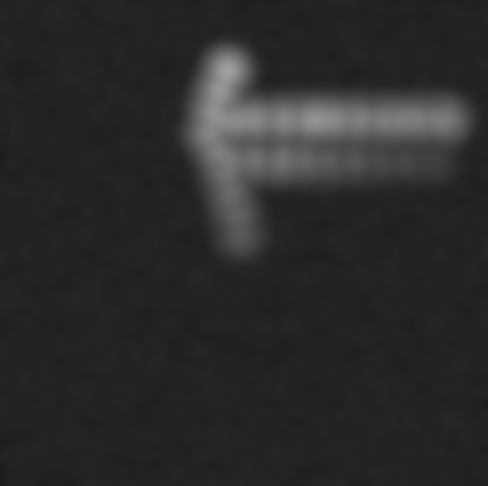
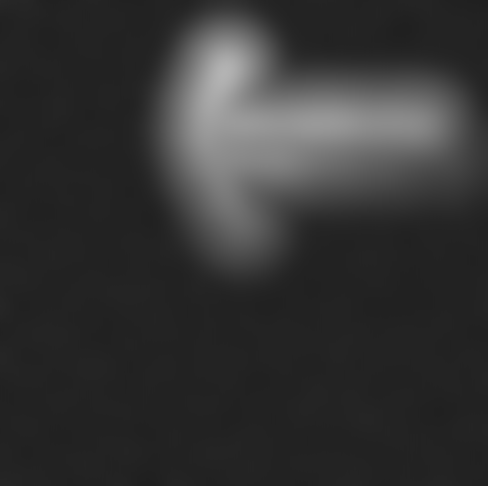
fixed

Changed region(s): [[0.3074, 0.0, 0.9836, 0.5556]]

diff --git a/sceneWebRender/handleSketch.py b/sceneWebRender/handleSketch.py
@@ -1,5 +1,5 @@
 import math
-COUNT = 8
+COUNT = 20
 
 def parseBackground(mountainlList, size):
 	result = []
@@ -45,7 +45,7 @@ def parseBackground(mountainlList, size):
 					verticalRidge.append({	'h':float(meanYHorizontalReference-tmp3[1])/size['height'], 
 											'x0':float(tmp3[0])/size['width'], 
 											'y0':float(tmp3[1])/size['height'], 
-											'rl':float(radiusHorizontalReference)/(size['width']*2),
+											'rl':float(radiusHorizontalReference)/(size['width']*1.2),
 											'rh':float(10)/size['width']}) 
 				tmpCount = tmpCount + 1
 			verticalRidgeList.append(verticalRidge)
@@ -66,7 +66,7 @@ def parseBackground(mountainlList, size):
 					horizontalRidge.append({'h':float(meanYHorizontalReference-tmp3[1])/size['height'], 
 											'x0':float(tmp3[0])/size['width'], 
 											'y0':float(tmp2[0][1])/size['height'], 
-											'rl':float(radiusHorizontalReference)/(size['width']*2),
+											'rl':float(radiusHorizontalReference)/(size['width']*1.2),
 											'rh':float(10)/size['width']})
 				tmpCount = tmpCount + 1
 			horizontalRidgeList.append(horizontalRidge)

diff --git a/sceneWebRender/main.py b/sceneWebRender/main.py
@@ -27,9 +27,9 @@ def achieveSketch():
 	for mountain in background:
 		HM.createMountain(mountain['x0'], mountain['y0'], mountain['rh'], mountain['rl'], mountain['h'])
 
-	HM.scaleHeightMap(0.9)
+	HM.scaleHeightMap(1)
 	HM.synthesizeHeightMap()
-	HM.gaussianSmooth(5)
+	HM.gaussianSmooth(10)
 
 	#HM.createTree(7, 1000, 1)
 	#HM.synthesizeTree()
